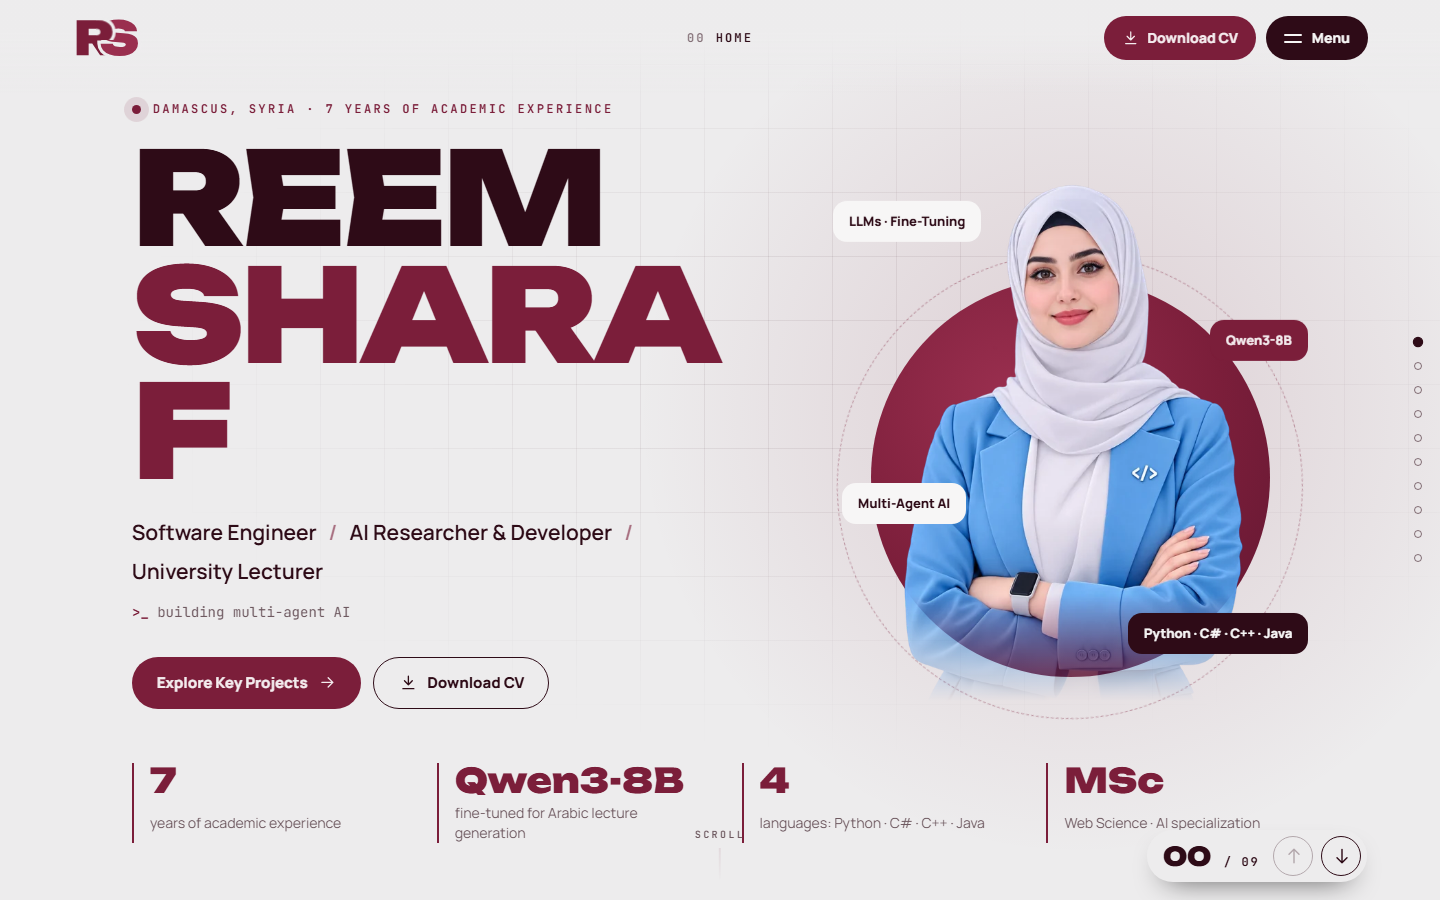
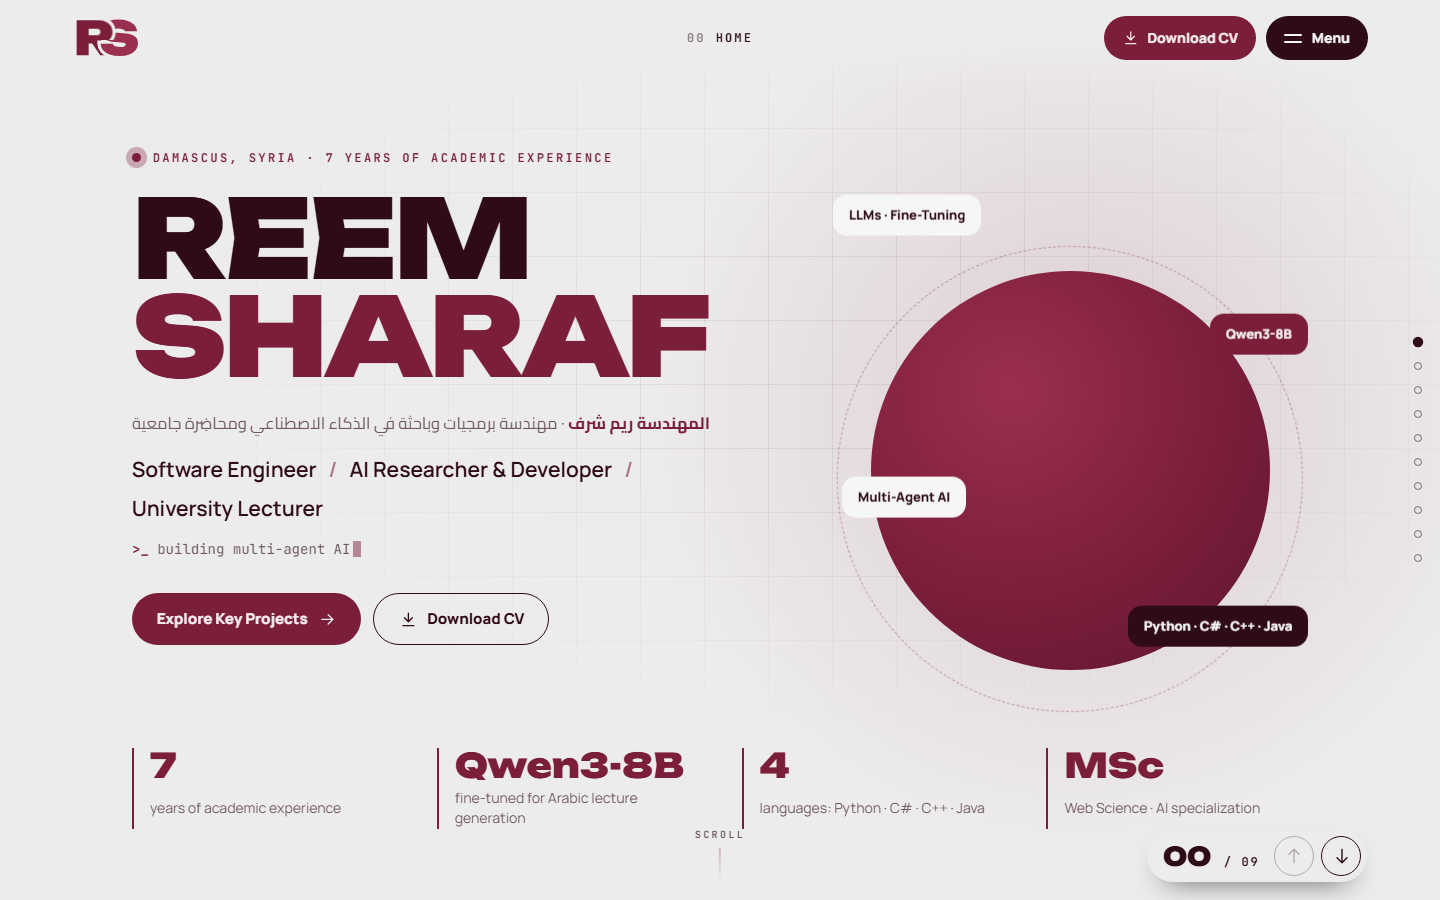
Add visible Arabic name for Arabic search; keep hero name on one line
- Hero line and footer show «المهندسة ريم شرف»; Arabic FAQ entry (also in FAQPage JSON-LD)
- Latin terms inside Arabic text are bidi-isolated so C#/C++ render correctly
- Hero name is sized from its own column (cqi), so SHARAF never wraps or clips

diff --git a/src/styles/sections/home.css b/src/styles/sections/home.css
@@ -7,12 +7,16 @@
 .hero-stats{margin-bottom:auto}
 .hero{display:grid;grid-template-columns:minmax(0,1.15fr) minmax(0,.85fr);gap:clamp(20px,4vw,64px);align-items:center}
 .hero-eyebrow{display:flex;align-items:center;gap:12px;font:600 12px/1.5 var(--fm);letter-spacing:.2em;text-transform:uppercase;color:var(--wine);margin-bottom:22px;animation:fadeUp .9s .1s var(--ease) both}
-.hero-name{font:900 clamp(54px,9vw,150px)/.9 var(--fd);letter-spacing:-.035em;margin-bottom:26px}
+.hero-text{container-type:inline-size}
+/* sized from its own column (cqi) so SHARAF always fits on one line, at any screen width */
+.hero-name{font:900 clamp(46px,7vw,124px)/.9 var(--fd);font-size:clamp(46px,17cqi,150px);white-space:nowrap;letter-spacing:-.035em;margin-bottom:26px}
 .hero-name .line{display:block;overflow:hidden;padding-bottom:.06em;margin-bottom:-.06em}
 .hero-name .line--wine{color:var(--wine)}
 .ch{display:inline-block;animation:chUp 1s var(--ease) both;animation-delay:calc(var(--i) * 45ms + 150ms)}
 @keyframes chUp{from{transform:translateY(105%)}}
 @keyframes fadeUp{from{opacity:0;transform:translateY(24px)}}
+.hero-ar{font:400 clamp(14px,1.15vw,16.5px)/1.6 'Cairo',var(--fb);color:var(--muted);text-align:left;margin:-8px 0 16px;animation:fadeUp .9s .45s var(--ease) both}
+.hero-ar strong{font-weight:700;color:var(--wine)}
 .hero-roles{display:flex;flex-wrap:wrap;align-items:center;gap:6px 12px;font-weight:600;font-size:clamp(16px,1.6vw,21px);margin-bottom:14px;animation:fadeUp .9s .55s var(--ease) both}
 .hero-roles i{font-style:normal;color:var(--wine);opacity:.6}
 .hero-typed{font:400 14px/1.4 var(--fm);color:var(--muted);margin-bottom:34px;min-height:1.4em;animation:fadeUp .9s .65s var(--ease) both}
@@ -56,5 +60,4 @@
 }
 @media (max-width:420px){
   .chip{font-size:11px;padding:7px 11px;border-radius:11px}
-  .hero-name{font-size:clamp(46px,15vw,64px)}
 }

diff --git a/CLAUDE.md b/CLAUDE.md
@@ -2,7 +2,7 @@
 
 - Static site, zero dependencies. Build with `node build.mjs` → `dist/`. Preview with `npm run dev` (http://localhost:3000).
 - Content lives in `src/content.mjs` and mirrors Reem Sharaf's CV exactly — don't invent facts.
-- The visible site is English only. Arabic names appear only in meta/JSON-LD/llms.txt for search.
+- The visible site is English, plus a few Arabic touches for Arabic search: the Arabic name line in the hero, the footer, and one Arabic FAQ entry (all from the `AR` translation). Arabic names also appear in meta/JSON-LD/llms.txt.
 - Deploy: push to GitHub, import into Vercel with project name `reemsharaf` (domain reemsharaf.vercel.app). `vercel.json` already sets build command and output directory.
 - After deploy: add Google Search Console verification token to `SITE.googleSiteVerification` in `src/content.mjs`, rebuild, and submit `/sitemap.xml`.
 - `dist/` is generated — don't edit it by hand.
